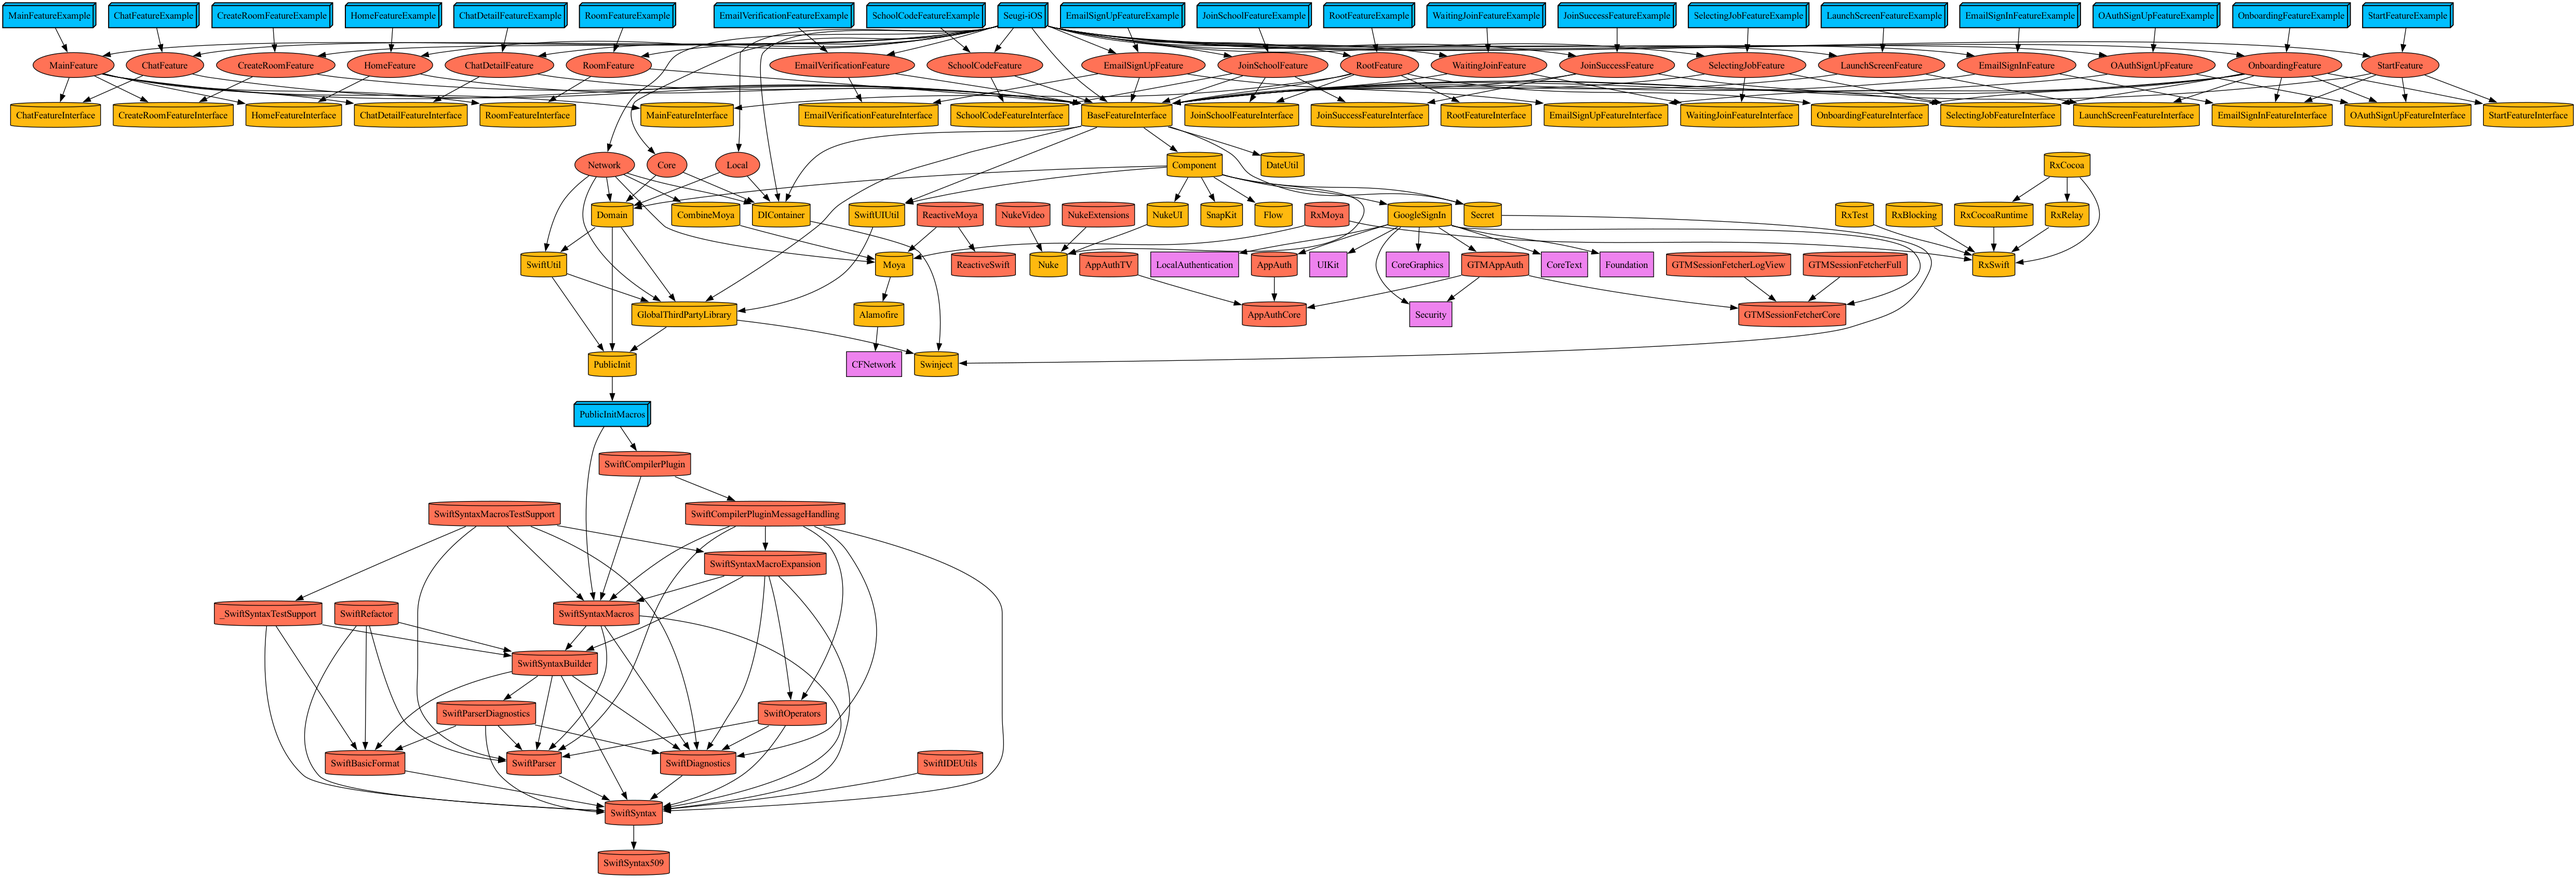
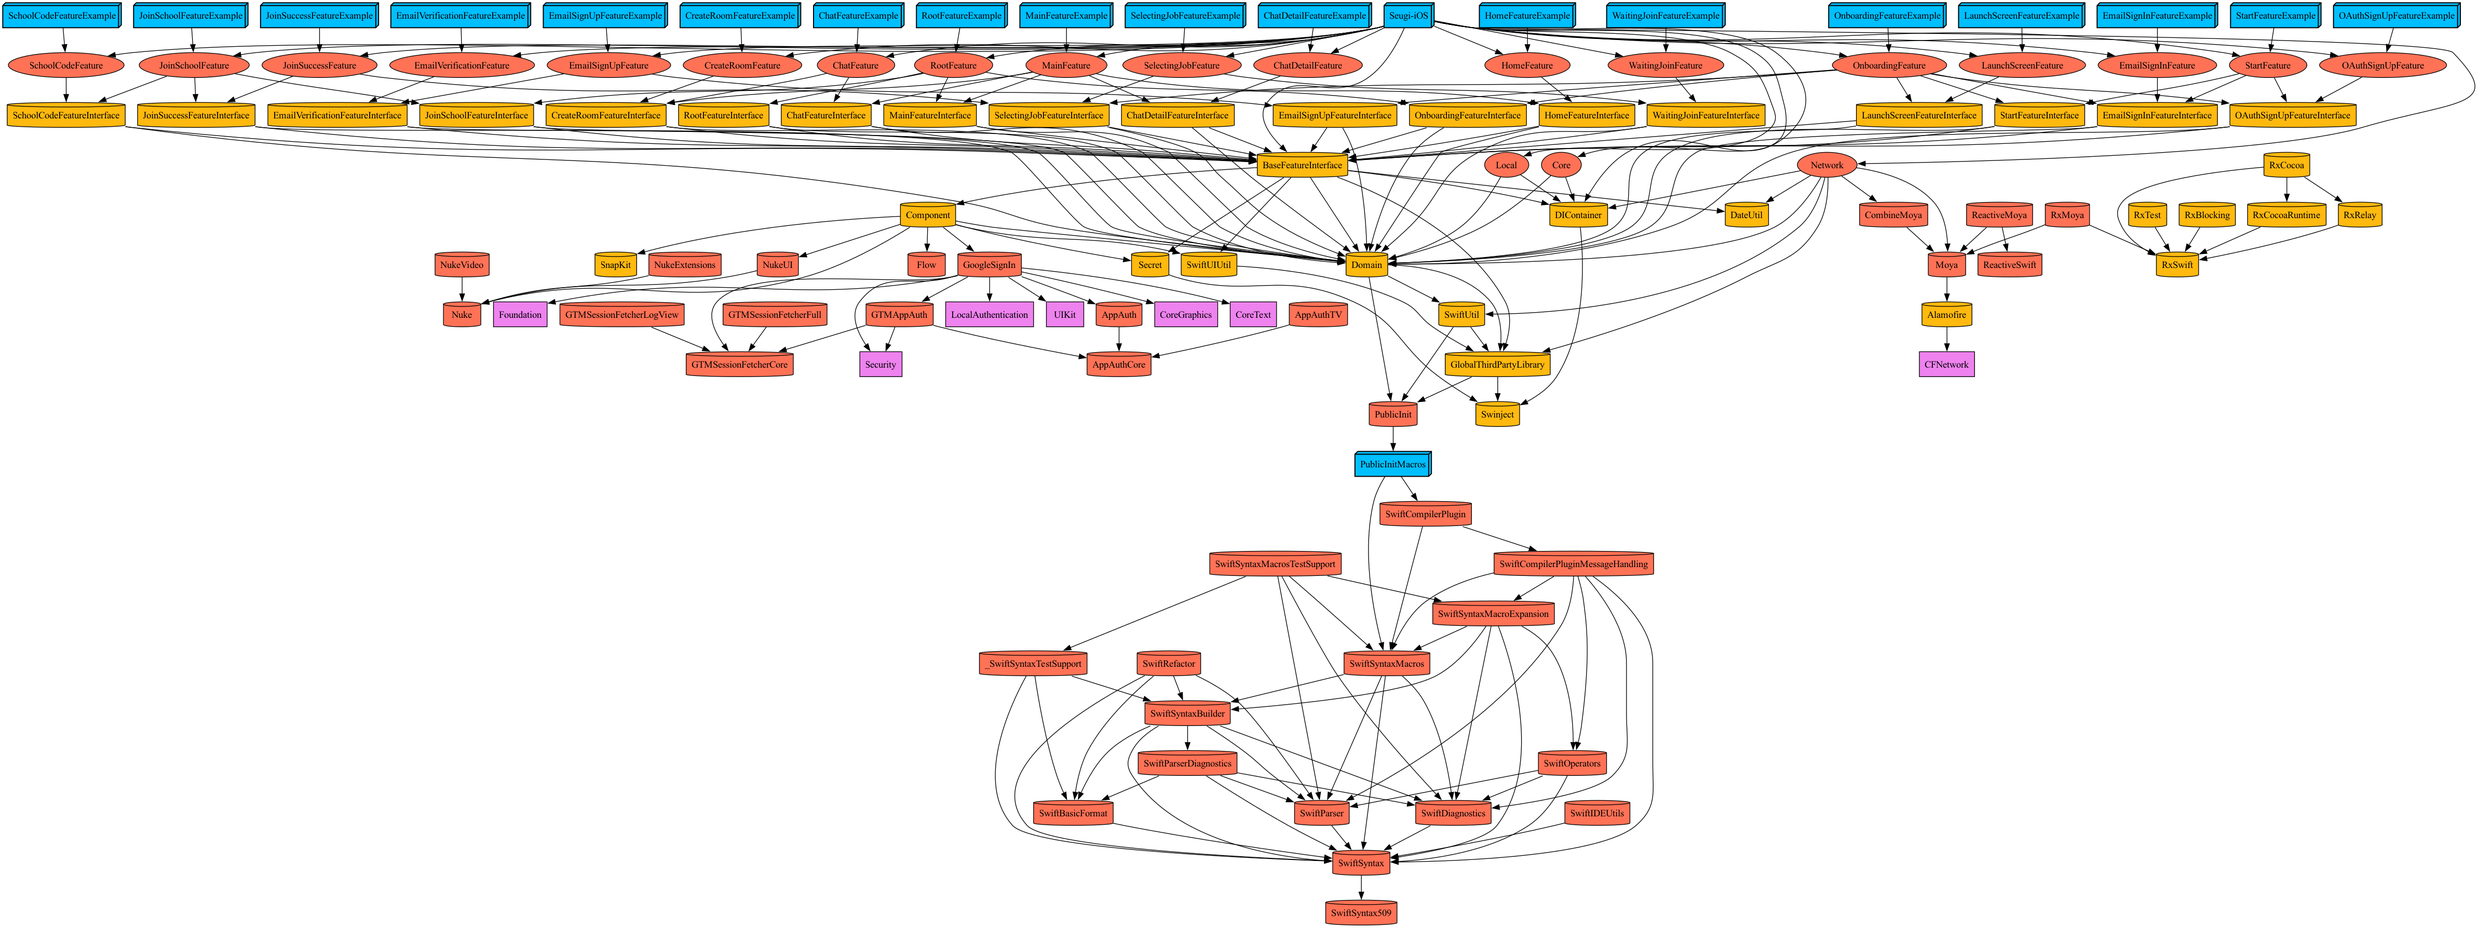
refactor : shared module

diff --git a/Projects/Component/Sources/Component/Button/Apple/AppleVC.swift b/Projects/Component/Sources/Component/Button/Apple/AppleVC.swift
@@ -2,6 +2,7 @@ import UIKit
 import SwiftUI
 import AuthenticationServices
 import SnapKit
+import Flow
 
 struct AppleSignInLabel: View {
     
@@ -89,24 +90,12 @@ extension AppleVC: ASAuthorizationControllerDelegate, ASAuthorizationControllerP
         var isFailure = true
         switch authorization.credential {
         case let appleIDCredential as ASAuthorizationAppleIDCredential:
-            // You can create an account in your system.
-            let userIdentifier = appleIDCredential.user
-            let fullName = appleIDCredential.fullName
-            let email = appleIDCredential.email
-            
-            if  let authorizationCode = appleIDCredential.authorizationCode,
-                let identityToken = appleIDCredential.identityToken,
-                let authCodeString = String(data: authorizationCode, encoding: .utf8),
-                let identifyTokenString = String(data: identityToken, encoding: .utf8) {
-//                print("authorizationCode: \(authorizationCode)")
-//                print("identityToken: \(identityToken)")
-//                print("authCodeString: \(authCodeString)")
-//                print("identifyTokenString: \(identifyTokenString)")
+            if let identityToken = appleIDCredential.identityToken,
+               let identifyTokenString = String(data: identityToken, encoding: .utf8) {
                 isFailure = false
                 onSuccess(identifyTokenString)
                 return
             }
-//            print("useridentifier: \(userIdentifier)")
         default:
             break
         }

diff --git a/Tuist/ProjectDescriptionHelpers/Target/Target+.swift b/Tuist/ProjectDescriptionHelpers/Target/Target+.swift
@@ -19,7 +19,7 @@ public extension Target {
         .makeTarget(
             name: "Seugi-\(type.rawValue)",
             product: .app,
-            bundleId: "com.\(env.name).\(type.rawValue)",
+            bundleId: "com.\(env.name)",
             infoPlist: infoPlist,
             sources: ["Sources/**"],
             resources: ["Resources/**"],
@@ -73,7 +73,10 @@ public extension Target {
             infoPlist: infoPlist,
             sources: ["\(target.rawValue)/**"],
             scripts: [.swiftLint],
-            dependencies: dependencies
+            dependencies: dependencies + [
+                .domain,
+                .diContainer
+            ]
         )
     }
     
@@ -87,7 +90,7 @@ public extension Target {
             product: .framework,
             bundleId: "com.\(env.name).\(target.rawValue.lowercased())",
             infoPlist: infoPlist,
-            sources: ["Sources/**"],
+            sources: ["\(target.rawValue)/**"],
             scripts: [.swiftLint],
             dependencies: dependencies
         )

diff --git a/Projects/Shared/Project.swift b/Projects/Shared/Project.swift
@@ -1,0 +1,27 @@
+//
+//  Project.swift
+//  ProjectDescriptionHelpers
+//
+//  Created by dgsw8th71 on 3/26/24.
+//
+
+import ProjectDescription
+import ProjectDescriptionHelpers
+import DependencyPlugin
+
+let project = Project.makeShared(
+    targets: [
+        .shared(target: .DateUtil),
+        .shared(target: .GlobalThirdPartyLibrary, dependencies: [
+            .SPM.Swinject,
+            .SPM.PublicInit
+        ]),
+        .shared(target: .Secret, dependencies: [
+            .SPM.Swinject
+        ]),
+        .shared(target: .SwiftUIUtil),
+        .shared(target: .SwiftUtil, dependencies: [
+            .SPM.PublicInit
+        ])
+    ]
+)

diff --git a/Projects/Data/Project.swift b/Projects/Data/Project.swift
@@ -4,19 +4,11 @@ import DependencyPlugin
 
 let project = Project.makeData(
     targets: [
-        .data(target: .Core, dependencies: [
-            .domain,
-            .diContainer
-        ]),
-        .data(target: .Local, dependencies: [
-            .domain,
-            .diContainer
-        ]),
+        .data(target: .Core),
+        .data(target: .Local),
         .data(target: .Network, dependencies: [
             .SPM.Moya,
             .SPM.CombineMoya,
-            .domain,
-            .diContainer,
             .shared(of: .SwiftUtil),
             .shared(of: .GlobalThirdPartyLibrary),
             .shared(of: .DateUtil)

diff --git a/Tuist/ProjectDescriptionHelpers/Project/Project+.swift b/Tuist/ProjectDescriptionHelpers/Project/Project+.swift
@@ -111,16 +111,13 @@ public extension Project {
      공통 공유 모듈
      */
     static func makeShared(
-        type: ModulePaths.Shared,
         packages: [Package] = [],
-        dependency: [TargetDependency] = []
+        targets: [Target] = []
     ) -> Self {
         return .makeProject(
-            name: type.rawValue,
+            name: "Shared",
             packages: packages,
-            targets: [
-                .shared(target: type, dependencies: dependency)
-            ]
+            targets: targets
         )
     }
     

diff --git a/Tuist/ProjectDescriptionHelpers/Path+.swift b/Tuist/ProjectDescriptionHelpers/Path+.swift
@@ -26,8 +26,8 @@ public extension ProjectDescription.Path {
     static var data: Self {
         .relativeToRoot("Projects/Data")
     }
-    static func relativeToShared(_ path: String) -> Self {
-        .relativeToRoot("Projects/Shared/\(path)")
+    static var shared: Self {
+        .relativeToRoot("Projects/Shared")
     }
     static func relativeToXCConfig(_ path: String) -> Self {
         .relativeToRoot("XCConfig/\(path)")

diff --git a/Projects/Component/Sources/Component/ChatList/SeugiChatList.swift b/Projects/Component/Sources/Component/ChatList/SeugiChatList.swift
@@ -38,7 +38,7 @@ public struct SeugiChatList: View {
                     .font(.body(.b2))
                     .seugiColor(.gray(.g500))
                 if case .group = type,
-                   room.joinUserId.count > 0 {
+                   !room.joinUserId.isEmpty {
                     SeugiBadge(type: .number(room.joinUserId.count))
                 }
             }

diff --git a/Tuist/ProjectDescriptionHelpers/Dependency/TargetDependency+Target.swift b/Tuist/ProjectDescriptionHelpers/Dependency/TargetDependency+Target.swift
@@ -53,7 +53,7 @@ public extension TargetDependency {
     ) -> TargetDependency {
         .project(
             target: target.rawValue,
-            path: .relativeToShared(target.rawValue)
+            path: .shared
         )
     }
 }

diff --git a/Projects/Domain/Project.swift b/Projects/Domain/Project.swift
@@ -6,6 +6,7 @@ let project = Project.makeDomain(
     dependency: [
         .shared(of: .SwiftUtil),
         .shared(of: .GlobalThirdPartyLibrary),
+        .SPM.Flow,
         .SPM.PublicInit
     ]
 )
